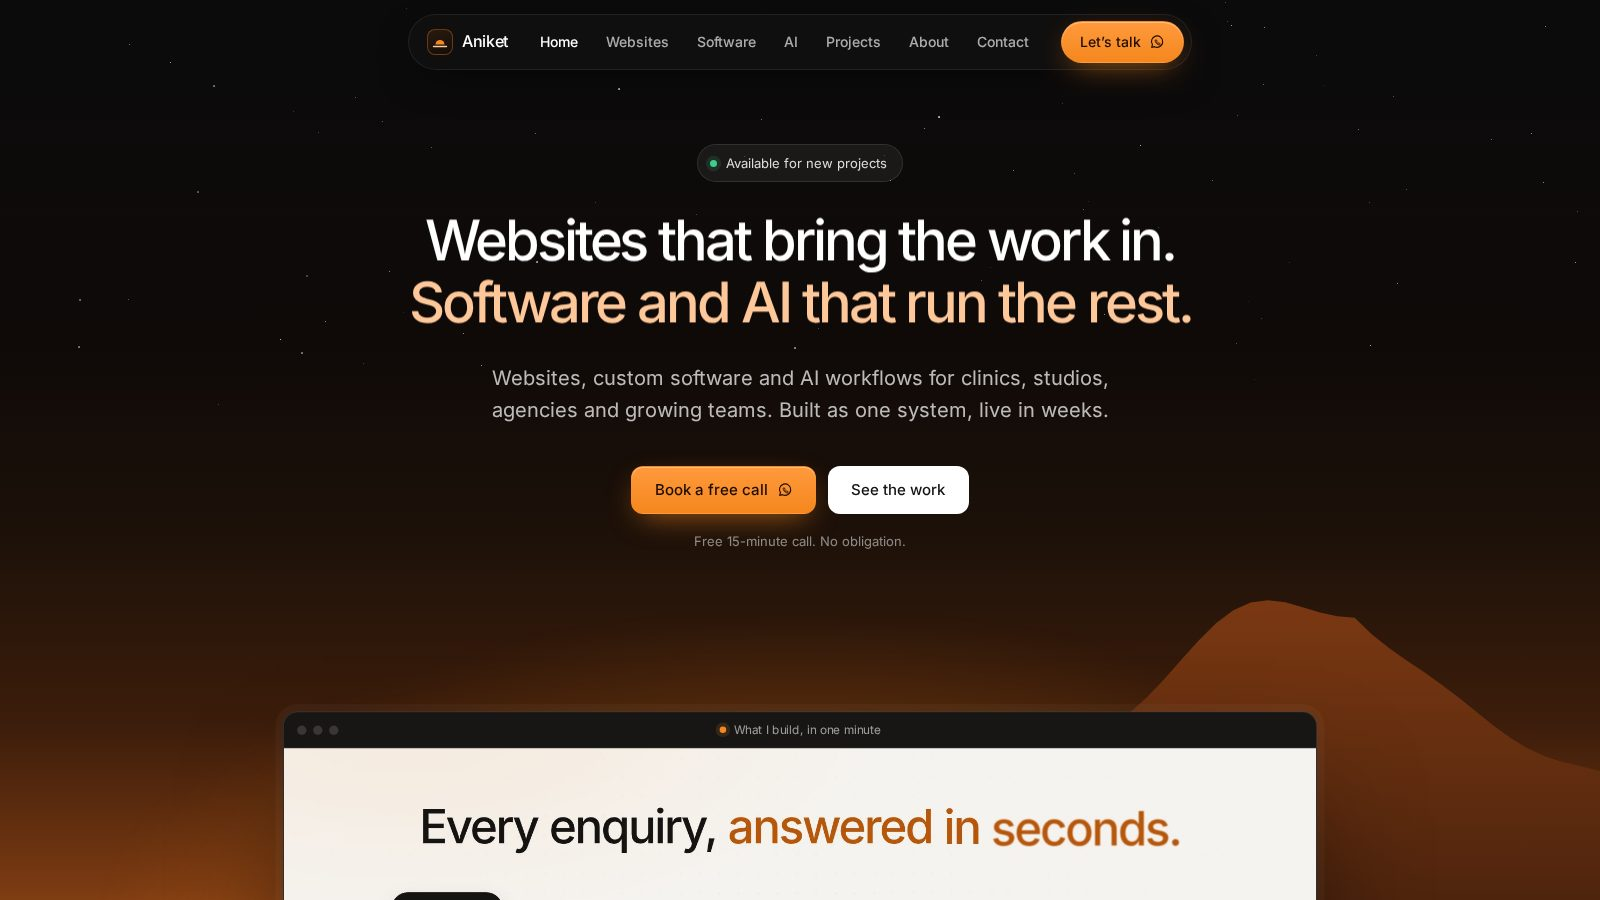
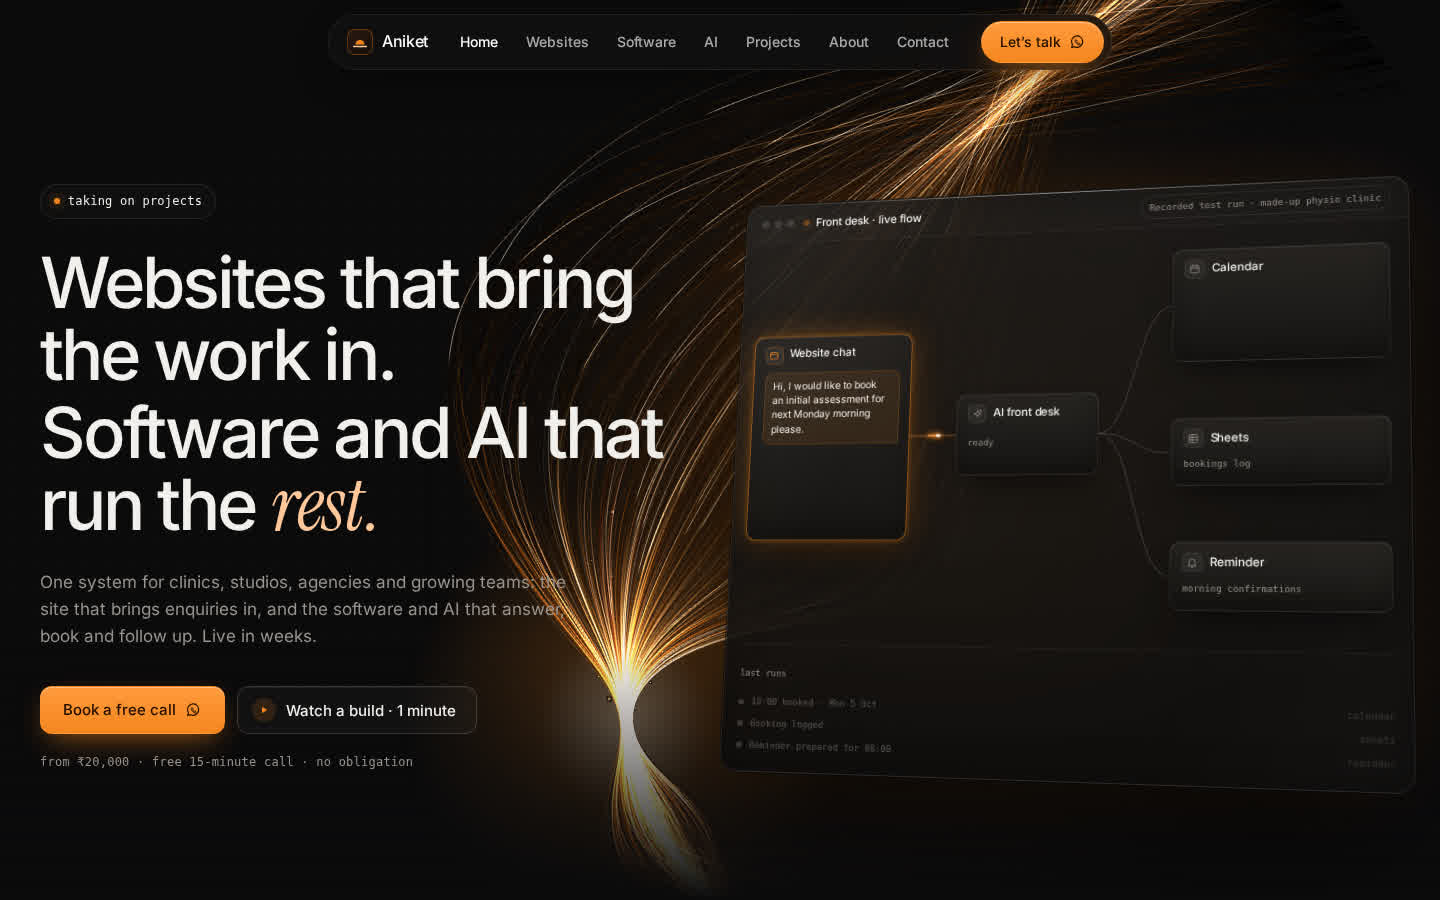
Fix /websites proof: honest website evidence, current site screenshot
The proof section on /websites showed software (Care Journey Platform)
and an AI chat widget as evidence for a websites page. Replace those
two cards with the five concept sites (Aura, Kinetic, Ekam, Noor,
Meridian), each with its made-up business name, type, a plain note
drawn from the concept's own copy, and a "Concept site · made-up
business" badge so it reads honestly. They reuse the hero stills
already captured for the /websites showcase orbit rather than new
captures.

Also retake this-site.jpg from the live home page (was a screenshot of
the old dusk-mountain hero; the site has since moved to the dark
"Stage" look) and rewrite its alt text to describe the current screen.
Update proofHead's second line to cover the five concept sites. Add a
mobile layout for six proof cards: "This website" stays full width,
the five concept cards pair up two per row instead of stacking into a
long single column.

diff --git a/src/data.js b/src/data.js
@@ -1495,8 +1495,8 @@ export const services = [
       { icon: 'spark', title: 'An assistant, if you want one', text: 'Answers the common questions from your own information, then hands ready buyers to you.' }
     ],
     from: { usd: '$1,200', inr: '₹35,000' },
-    media: { kind: 'image', src: '/this-site.jpg', badge: 'This site · real screens', alt: 'The home page of this website: a dusk sky over mountain ridges, with the headline and the call buttons' },
-    proofHead: ['The proof is the page you are on.', 'Built, hosted and wired up by me.'],
+    media: { kind: 'image', src: '/this-site.jpg', badge: 'This site · real screens', alt: 'The home page of this website: a dark page with the headline Websites that bring the work in, software and AI that run the rest, and a saffron Book a free call button' },
+    proofHead: ['The proof is the page you are on.', 'And five more, built for made-up businesses.'],
     proof: [
       {
         key: 'this-site',
@@ -1509,12 +1509,59 @@ export const services = [
         cta: 'Try the form'
       },
       {
-        slug: 'care-journey',
-        note: 'A public site that takes a visitor from first enquiry through screening and payment to a private portal, in one flow.'
+        key: 'concept-aura',
+        title: 'Aura Skin Studio',
+        subtitle: 'Skin and aesthetics clinic',
+        note: 'A glass serum bottle turns in the light, so the product sells the clinic before a word is read.',
+        image: '/showcase/websites/aura-hero.webp',
+        imageAlt: 'The home screen of the Aura Skin Studio concept site: a glass serum bottle turning in the light',
+        badge: 'Concept site · made-up business',
+        to: '/concepts/aura',
+        cta: 'Open the site'
       },
       {
-        slug: 'website-answer-widget',
-        note: 'A chat bubble for a clinic site: it answers from the clinic’s own documents, and when it cannot, it takes a name and number for a callback.'
+        key: 'concept-kinetic',
+        title: 'Kinetic Physio',
+        subtitle: 'Sports and physio clinic',
+        note: 'A chrome spine that flexes as you scroll: movement is the whole promise, so the page moves.',
+        image: '/showcase/websites/kinetic-hero.webp',
+        imageAlt: 'The home screen of the Kinetic Physio concept site: a chrome spine model',
+        badge: 'Concept site · made-up business',
+        to: '/concepts/kinetic',
+        cta: 'Open the site'
+      },
+      {
+        key: 'concept-ekam',
+        title: 'Studio Ekam',
+        subtitle: 'Yoga and breathwork studio',
+        note: 'A living ink that breathes in and out with the words. Calm, shown rather than claimed.',
+        image: '/showcase/websites/ekam-hero.webp',
+        imageAlt: 'The home screen of the Studio Ekam concept site: ink breathing in and out with the words',
+        badge: 'Concept site · made-up business',
+        to: '/concepts/ekam',
+        cta: 'Open the site'
+      },
+      {
+        key: 'concept-noor',
+        title: 'Atelier Noor',
+        subtitle: 'Interior and architecture studio',
+        note: 'A marble and bronze sculpture in low gallery light, so the studio reads as craft from the first second.',
+        image: '/showcase/websites/noor-hero.webp',
+        imageAlt: 'The home screen of the Atelier Noor concept site: a marble and bronze sculpture in low gallery light',
+        badge: 'Concept site · made-up business',
+        to: '/concepts/noor',
+        cta: 'Open the site'
+      },
+      {
+        key: 'concept-meridian',
+        title: 'Meridian Advisory',
+        subtitle: 'Accounting and wealth advisory',
+        note: 'A field of points gathers from a scattered cloud into a clear chart: the job, in one move.',
+        image: '/showcase/websites/meridian-hero.webp',
+        imageAlt: 'The home screen of the Meridian Advisory concept site: scattered points gathering into a chart',
+        badge: 'Concept site · made-up business',
+        to: '/concepts/meridian',
+        cta: 'Open the site'
       }
     ],
     faq: [

diff --git a/src/pages/ServicePage.css b/src/pages/ServicePage.css
@@ -186,5 +186,26 @@
   .svc-cards[data-count='2'] {
     grid-template-columns: minmax(0, 1fr);
   }
+
+  /* Six proof cards (the websites area: this site plus five concept
+     sites) would stack into a long scroll at one column. "This website"
+     stays full width and first; the five concept cards pair up two per
+     row, so the section still reads in a glance. */
+  .svc-cards[data-count='6'] {
+    grid-template-columns: repeat(2, minmax(0, 1fr));
+    gap: 0.75rem;
+  }
+
+  .svc-cards[data-count='6'] > li:first-child {
+    grid-column: 1 / -1;
+  }
+
+  .svc-cards[data-count='6'] .card-body {
+    padding: 0.85rem 0.75rem 0.65rem;
+  }
+
+  .svc-cards[data-count='6'] .card-title h3 {
+    font-size: 1.0625rem;
+  }
 }
 

diff --git a/src/pages/service/Proof.jsx b/src/pages/service/Proof.jsx
@@ -91,7 +91,7 @@ export default function Proof({ area }) {
                   ) : (
                     <img
                       src={card.image}
-                      alt=""
+                      alt={card.imageAlt || ''}
                       className="card-video"
                       width="1600"
                       height="900"
